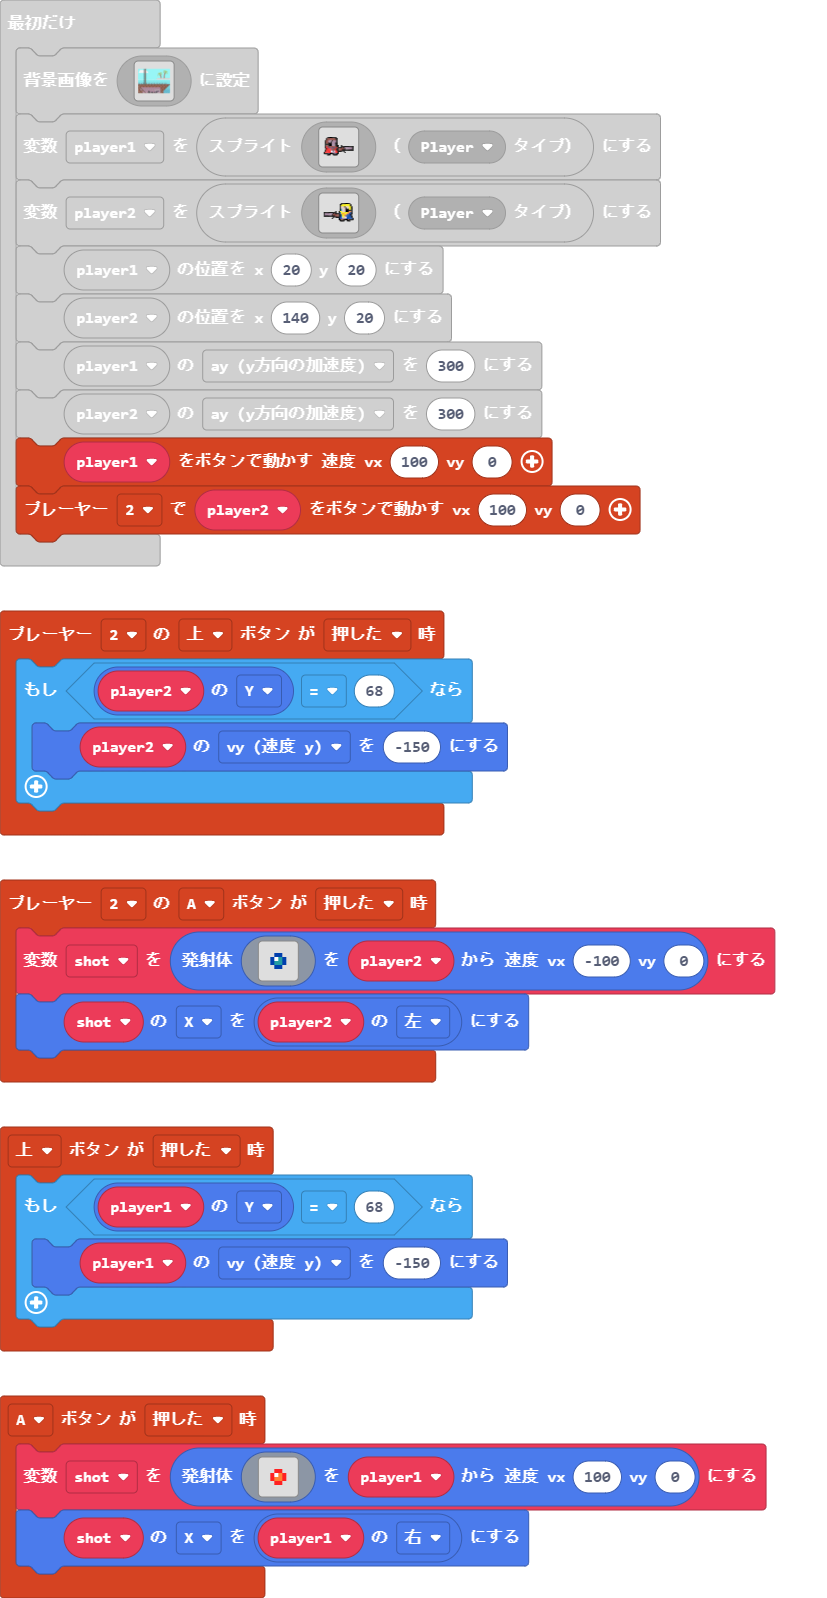
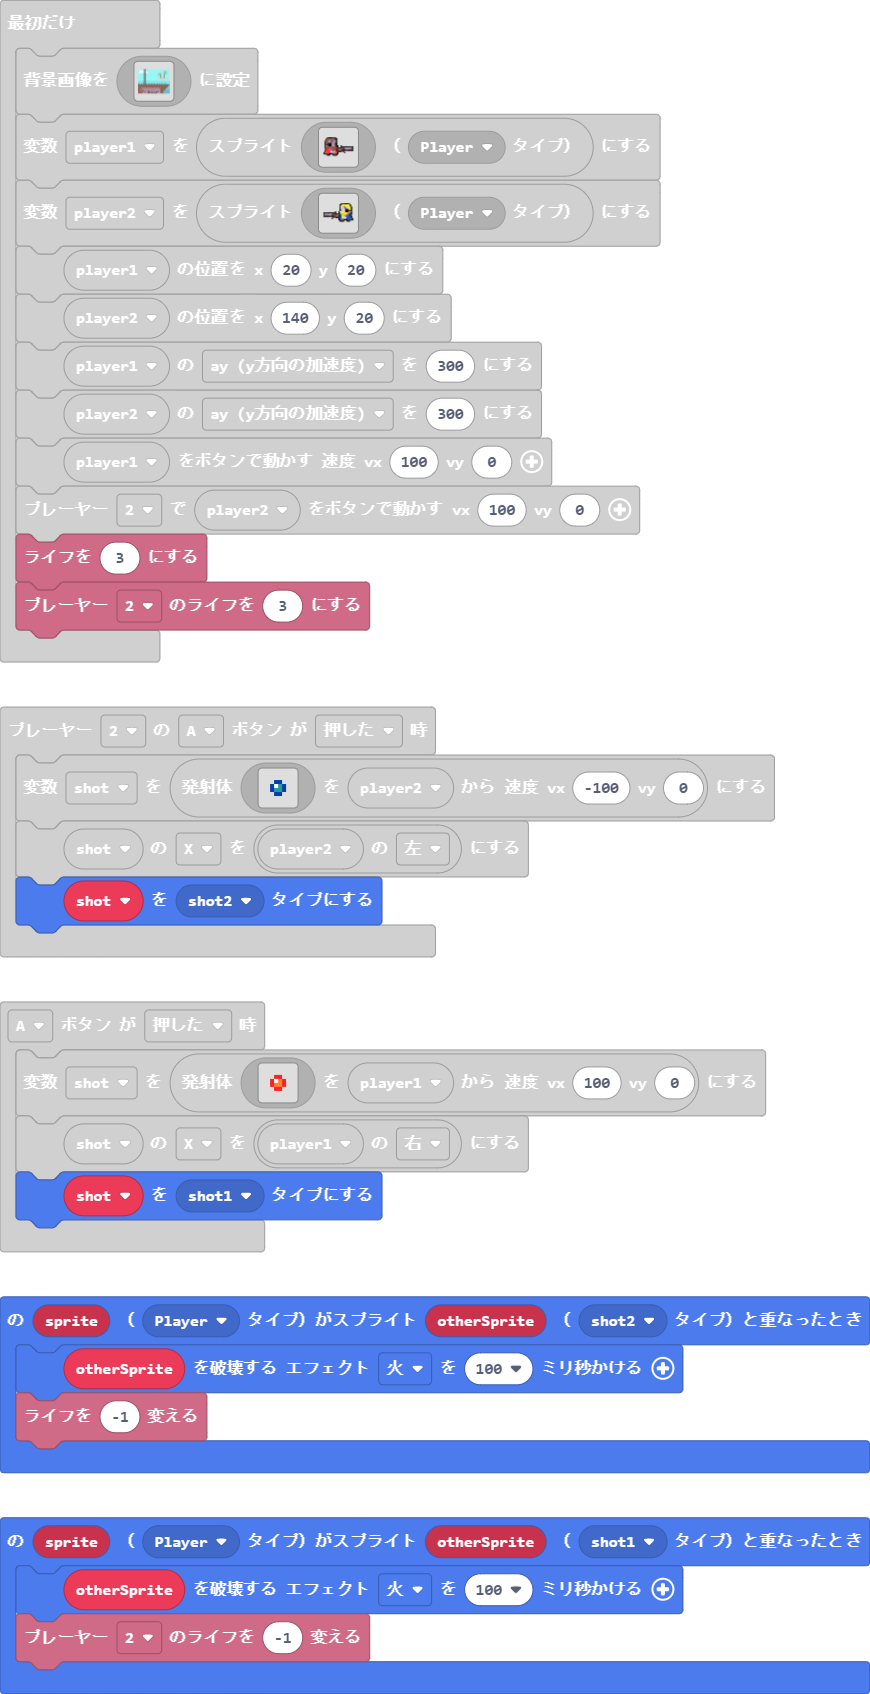
弾が当たったらライフが減る

diff --git a/main.ts b/main.ts
@@ -1,3 +1,7 @@
+namespace SpriteKind {
+    export const shot1 = SpriteKind.create()
+    export const shot2 = SpriteKind.create()
+}
 controller.player2.onButtonEvent(ControllerButton.A, ControllerButtonEvent.Pressed, function () {
     shot = sprites.createProjectileFromSprite(img`
         . . . . . . . . 
@@ -10,11 +14,20 @@ controller.player2.onButtonEvent(ControllerButton.A, ControllerButtonEvent.Press
         . . . . . . . . 
         `, player2, -100, 0)
     shot.x = player2.left
+    shot.setKind(SpriteKind.shot2)
+})
+sprites.onOverlap(SpriteKind.Player, SpriteKind.shot1, function (sprite, otherSprite) {
+    otherSprite.destroy(effects.fire, 100)
+    info.player2.changeLifeBy(-1)
 })
 controller.player2.onButtonEvent(ControllerButton.Up, ControllerButtonEvent.Pressed, function () {
     if (player2.y == 68) {
         player2.vy = -150
     }
+})
+sprites.onOverlap(SpriteKind.Player, SpriteKind.shot2, function (sprite, otherSprite) {
+    otherSprite.destroy(effects.fire, 100)
+    info.changeLifeBy(-1)
 })
 controller.up.onEvent(ControllerButtonEvent.Pressed, function () {
     if (player1.y == 68) {
@@ -33,6 +46,7 @@ controller.A.onEvent(ControllerButtonEvent.Pressed, function () {
         . . . . . . . . 
         `, player1, 100, 0)
     shot.x = player1.right
+    shot.setKind(SpriteKind.shot1)
 })
 let shot: Sprite = null
 let player2: Sprite = null
@@ -201,6 +215,8 @@ player1.ay = 300
 player2.ay = 300
 controller.moveSprite(player1, 100, 0)
 controller.player2.moveSprite(player2, 100, 0)
+info.setLife(3)
+info.player2.setLife(3)
 game.onUpdate(function () {
     if (player1.y >= 68) {
         player1.y = 68
